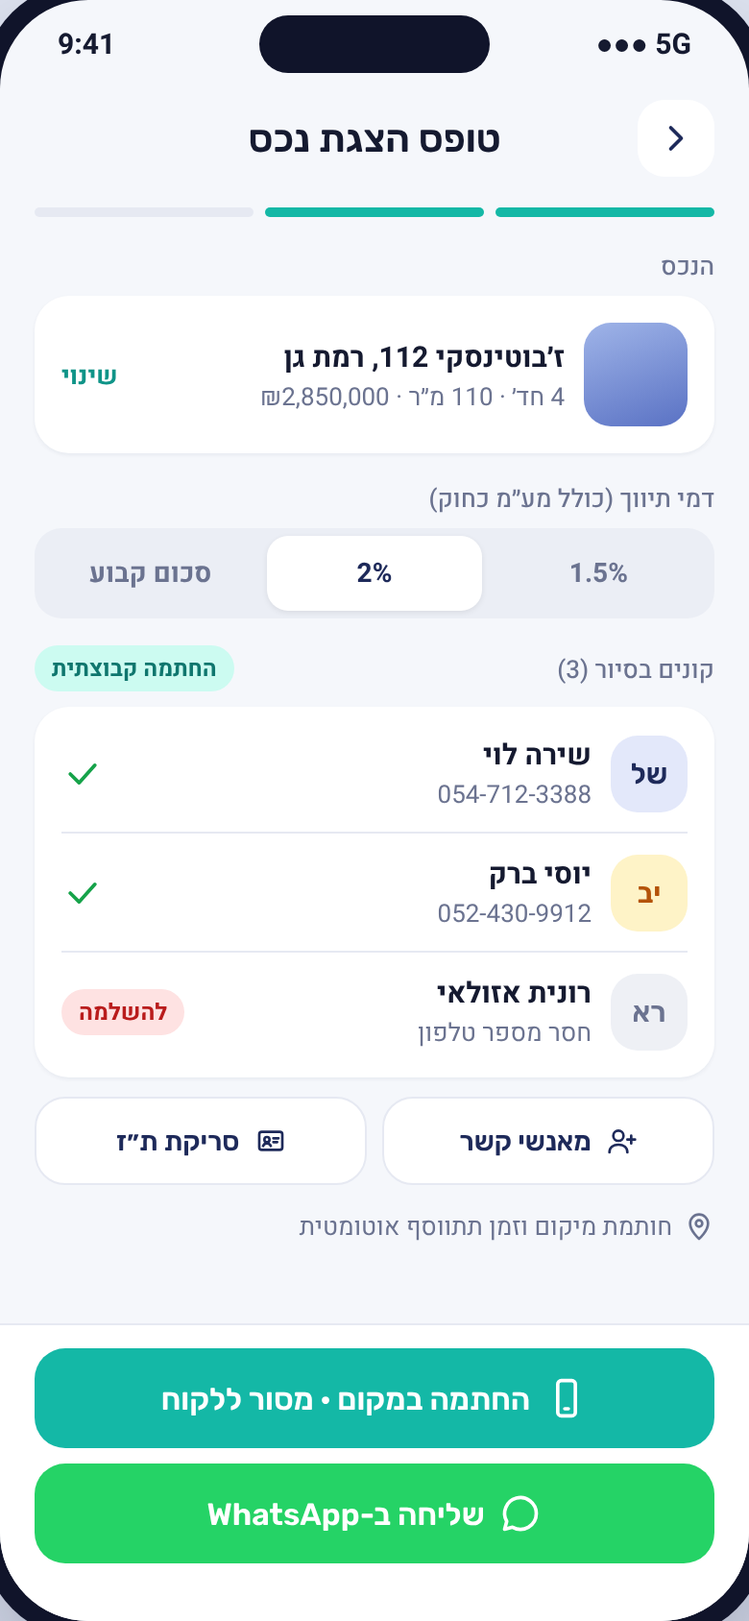
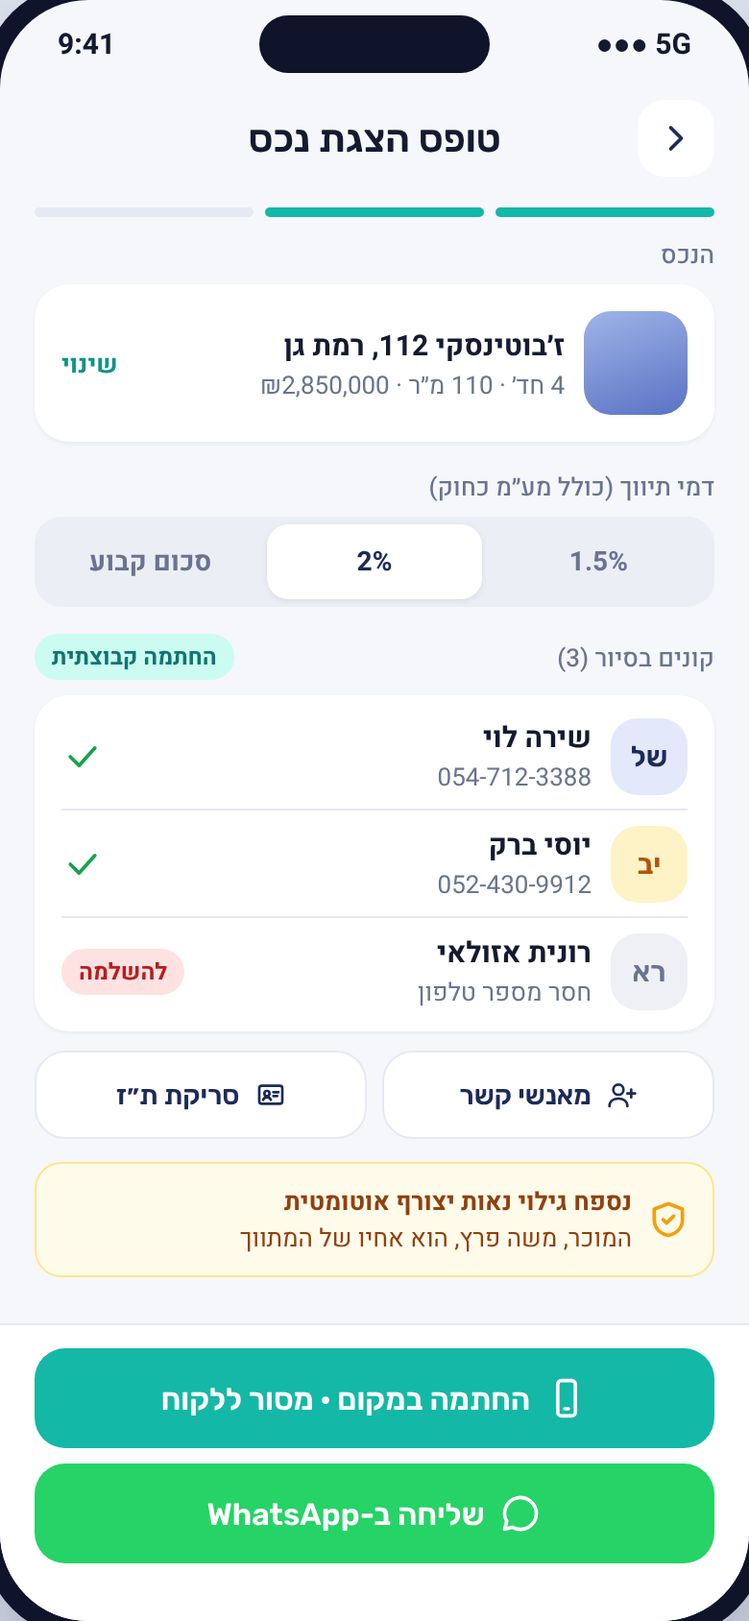
Rework disclosure templates: broker personal-interest annex and seller disclosure questionnaire
Disclosure annex is now a buyer/tenant acknowledgment of the broker's
personal interest (e.g. family tie to the seller), auto-attached per
property. Seller questionnaire becomes the property disclosure with an
auto-generated buyer info sheet.

Claude-Session: https://claude.ai/code/session_01U1SeR6NZ2Ur7a4idD67urs

diff --git a/docs/broker-app/mockups/mockups.html b/docs/broker-app/mockups/mockups.html
@@ -83,8 +83,8 @@ svg.i{width:22px;height:22px;fill:none;stroke:currentColor;stroke-width:2;stroke
  <div class="list">
   <div class="card row"><div class="av c-navy"><svg class="i" data-i="file"></svg></div><div style="flex:1"><div class="t">הזמנת שירותי תיווך</div><div class="s">מכירה · קנייה · השכרה · שכירות</div></div><svg class="i" data-i="chev" style="color:var(--mute)"></svg></div>
   <div class="card row"><div class="av c-amber"><svg class="i" data-i="key"></svg></div><div style="flex:1"><div class="t">הסכם בלעדיות</div><div class="s">כולל פעולות שיווק ותאריך סיום</div></div><svg class="i" data-i="chev" style="color:var(--mute)"></svg></div>
-  <div class="card row"><div class="av c-green"><svg class="i" data-i="shield"></svg></div><div style="flex:1"><div class="t">גילוי נאות ומידע על הנכס</div><div class="s">לקונה · ממולא משאלון המוכר</div></div><svg class="i" data-i="chev" style="color:var(--mute)"></svg></div>
-  <div class="card row"><div class="av c-gray"><svg class="i" data-i="list"></svg></div><div style="flex:1"><div class="t">שאלון מוכר נכס</div><div class="s">למוכר · זכויות, ליקויים, תשלומים</div></div><svg class="i" data-i="chev" style="color:var(--mute)"></svg></div>
+  <div class="card row"><div class="av c-green"><svg class="i" data-i="shield"></svg></div><div style="flex:1"><div class="t">נספח גילוי נאות – עניין אישי</div><div class="s">לקונה/שוכר · למשל קרבה משפחתית למוכר</div></div><svg class="i" data-i="chev" style="color:var(--mute)"></svg></div>
+  <div class="card row"><div class="av c-gray"><svg class="i" data-i="list"></svg></div><div style="flex:1"><div class="t">שאלון מוכר – גילוי נאות</div><div class="s">למוכר · + דף מידע אוטומטי לקונה</div></div><svg class="i" data-i="chev" style="color:var(--mute)"></svg></div>
  </div>
  <div class="row" style="margin-top:16px;background:#E8F7F4;border-radius:14px;padding:12px;color:#0F766E;font-size:13px;gap:8px"><svg class="i" data-i="shield"></svg><span>כל התבניות כוללות את שדות החובה לפי תקנות המתווכים במקרקעין</span></div>
 </div>
@@ -94,24 +94,24 @@ svg.i{width:22px;height:22px;fill:none;stroke:currentColor;stroke-width:2;stroke
 <div class="wrap"><div class="phone"><div class="sb"><span>9:41</span><span class="n"></span><span>●●● 5G</span></div>
 <div class="body">
  <div class="hdr"><div class="ib"><svg class="i" data-i="back"></svg></div><h2>טופס הצגת נכס</h2><div style="width:40px"></div></div>
- <div class="steps"><i class="on"></i><i class="on"></i><i></i></div>
+ <div class="steps" style="margin-bottom:10px"><i class="on"></i><i class="on"></i><i></i></div>
  <div class="lbl">הנכס</div>
  <div class="card row" style="margin-bottom:14px"><div style="width:54px;height:54px;border-radius:14px;background:linear-gradient(160deg,#9FB4E8,#5A72C4);flex:none"></div><div style="flex:1"><div class="t">ז׳בוטינסקי 112, רמת גן</div><div class="s">4 חד׳ · 110 מ״ר · ₪2,850,000</div></div><span class="s" style="color:var(--teal-d);font-weight:600">שינוי</span></div>
  <div class="lbl">דמי תיווך (כולל מע״מ כחוק)</div>
  <div class="seg" style="margin-bottom:14px"><div>1.5%</div><div class="on">2%</div><div>סכום קבוע</div></div>
  <div class="row between" style="margin-bottom:8px"><div class="lbl" style="margin:0">קונים בסיור (3)</div><span class="chip c-teal">החתמה קבוצתית</span></div>
  <div class="card" style="padding:4px 14px">
-  <div class="row" style="padding:10px 0"><div class="av c-navy">של</div><div style="flex:1"><div class="t">שירה לוי</div><div class="s" style="direction:ltr;text-align:right">054-712-3388</div></div><svg class="i" data-i="check" style="color:var(--green)"></svg></div>
+  <div class="row" style="padding:7px 0"><div class="av c-navy">של</div><div style="flex:1"><div class="t">שירה לוי</div><div class="s" style="direction:ltr;text-align:right">054-712-3388</div></div><svg class="i" data-i="check" style="color:var(--green)"></svg></div>
   <div class="divider" style="margin:0"></div>
-  <div class="row" style="padding:10px 0"><div class="av c-amber">יב</div><div style="flex:1"><div class="t">יוסי ברק</div><div class="s" style="direction:ltr;text-align:right">052-430-9912</div></div><svg class="i" data-i="check" style="color:var(--green)"></svg></div>
+  <div class="row" style="padding:7px 0"><div class="av c-amber">יב</div><div style="flex:1"><div class="t">יוסי ברק</div><div class="s" style="direction:ltr;text-align:right">052-430-9912</div></div><svg class="i" data-i="check" style="color:var(--green)"></svg></div>
   <div class="divider" style="margin:0"></div>
-  <div class="row" style="padding:10px 0"><div class="av c-gray">רא</div><div style="flex:1"><div class="t">רונית אזולאי</div><div class="s">חסר מספר טלפון</div></div><span class="chip c-red">להשלמה</span></div>
+  <div class="row" style="padding:7px 0"><div class="av c-gray">רא</div><div style="flex:1"><div class="t">רונית אזולאי</div><div class="s">חסר מספר טלפון</div></div><span class="chip c-red">להשלמה</span></div>
  </div>
  <div class="row" style="gap:8px;margin-top:10px">
   <div class="btn bo" style="flex:1;height:46px;font-size:14px"><svg class="i sm" data-i="uplus"></svg>מאנשי קשר</div>
   <div class="btn bo" style="flex:1;height:46px;font-size:14px"><svg class="i sm" data-i="idc"></svg>סריקת ת״ז</div>
  </div>
- <div class="row" style="margin-top:12px;font-size:13px;color:var(--mute);gap:6px"><svg class="i sm" data-i="pin"></svg>חותמת מיקום וזמן תתווסף אוטומטית</div>
+ <div class="row" style="margin-top:12px;background:#FFFBEB;border:1.5px solid #FDE68A;border-radius:14px;padding:10px 12px;gap:8px;font-size:13px;color:#92400E"><svg class="i" data-i="shield" style="color:var(--amber)"></svg><div style="flex:1"><b>נספח גילוי נאות יצורף אוטומטית</b><br>המוכר, משה פרץ, הוא אחיו של המתווך</div></div>
 </div>
 <div style="padding:12px 18px 30px;background:#fff;border-top:1px solid var(--line);display:flex;flex-direction:column;gap:8px">
  <div class="btn bp"><svg class="i" data-i="phone2"></svg>החתמה במקום · מסור ללקוח</div>

diff --git a/docs/broker-app/templates/03-disclosure.md b/docs/broker-app/templates/03-disclosure.md
@@ -1,50 +1,49 @@
-# טופס גילוי נאות ומידע על הנכס
-**נמסר לקונה / לשוכר – לפי חובות הגילוי של המתווך (סעיף 10 לחוק ותקנות המתווכים במקרקעין (אתיקה וחובות מקצועיות), התשפ״ד-2024)**
+# נספח גילוי נאות – עניין אישי של המתווך
+**נספח שהקונה / השוכר חותם עליו כדי לאשר שידע על הקשר בין המתווך לבין המוכר / המשכיר או הנכס**
+**לפי סעיף 10 לחוק המתווכים במקרקעין, התשנ״ו-1996 ותקנות המתווכים במקרקעין (אתיקה וחובות מקצועיות), התשפ״ד-2024**
 
-> טיוטה לעבודה – לבדיקת עו״ד. יש להשוות את סעיף ג׳ לרשימה המלאה ב**תוספת לתקנות האתיקה** ולהשלים פריטים חסרים.
+> טיוטה לעבודה – לבדיקת עו״ד. יש לוודא מול נוסח החוק את ההגדרה המדויקת של "קרוב" ואת אופן הגילוי הנדרש.
 
-**תאריך:** {{תאריך}}   **הנכס:** {{נכס.כתובת}}   **הלקוח:** {{לקוח.שם}}, ת״ז {{לקוח.תז}}
+**מצורף ל:** [ ] הזמנת שירותי תיווך מס׳ {{הזמנה.מספר}}  [ ] טופס הצגת נכס מס׳ {{הצגה.מספר}}
+**תאריך:** {{תאריך}}*   **הנכס:** {{נכס.כתובת}}*
 
-## א. גילוי על המתווך
-| נושא | גילוי |
-|---|---|
-| רישיון | {{מתווך.שם}}, רישיון {{מתווך.רישיון}} – הוצג ללקוח לפי בקשתו |
-| עניין אישי בנכס/בעסקה | [ ] אין  [ ] יש: {{עניין_אישי}} |
-| את מי המתווך מייצג | [ ] את הקונה/שוכר בלבד  [ ] את המוכר/משכיר בלבד  [ ] את שני הצדדים – בהסכמת שניהם בכתב |
-| בלעדיות מבעל הנכס | [ ] לנכס יש בלעדיות אצל המתווך עד {{בלעדיות.עד}}  [ ] אין |
-| תשלום / טובת הנאה מגורם שאינו צד לעסקה (שמאי, יועץ משכנתאות, קבלן וכו׳) | [ ] אין  [ ] יש: {{תשלום_צד_ג}} |
-| הליכי כינוס / הוצאה לפועל על הנכס, ככל שידוע | [ ] לא ידוע על הליך  [ ] קיים: {{הליכים}} |
+### 1. הצדדים
+**המתווך:** {{מתווך.שם}}, רישיון {{מתווך.רישיון}}*, {{משרד.שם}}
+**הלקוח (קונה / שוכר):** {{לקוח.שם}}, ת״ז {{לקוח.תז}}*
+**הצד השני לעסקה (מוכר / משכיר):** {{צד_שני.שם}}*
 
-## ב. מקור המידע
-המידע בסעיף ג׳ נמסר על ידי בעל הנכס ב**שאלון מוכר** מיום {{שאלון.תאריך}}, ו/או נבדק על ידי המתווך במקורות: [ ] נסח טאבו מיום {{נסח.תאריך}} [ ] אישור זכויות ממנהל/חברה משכנת [ ] תיק בניין / היתר [ ] ביקור בנכס.
-המתווך אינו מהנדס, שמאי או עו״ד. **מומלץ לבצע בדיקה הנדסית ומשפטית עצמאית לפני חתימה על הסכם.**
+### 2. מהות העניין האישי*
+המתווך מודיע ללקוח שיש לו עניין אישי בנכס או בעסקה, כמפורט (לסמן את כל מה שרלוונטי):
+[ ] **קרבה משפחתית למוכר / משכיר** – {{צד_שני.שם}} הוא/היא **{{קרבה}}** של המתווך
+    *(למשל: בן/בת זוג, הורה, ילד/ה, אח/ות, סב/תא, נכד/ה, גיס/ה, חותן/ת – ובני זוגם)*
+[ ] **קרבה משפחתית של עובד במשרד** – {{עובד.שם}} מהמשרד הוא/היא {{קרבה}} של המוכר / המשכיר
+[ ] **המתווך עצמו** (או בן משפחתו) **בעל זכויות בנכס** – פירוט: {{זכויות_מתווך}}
+[ ] **תאגיד בשליטת המתווך** או שהמתווך שותף / בעל מניות / מנהל בו הוא בעל הנכס – שם התאגיד: {{תאגיד}}
+[ ] **קשר עסקי** עם המוכר / המשכיר (שותפות, העסקה, ספק, לקוח קבוע) – פירוט: {{קשר_עסקי}}
+[ ] **טובת הנאה מגורם שאינו צד לעסקה** (קבלן, יזם, יועץ משכנתאות, שמאי, עו״ד) – ממי ובאיזה היקף: {{טובת_הנאה}}
+[ ] **המתווך מייצג גם את המוכר / המשכיר** בעסקה זו
+[ ] עניין אחר: {{עניין_אחר}}
 
-## ג. מידע על הנכס
-| נושא | מצב | פירוט |
-|---|---|---|
-| בעלות ורישום | {{זכויות.סוג}} | שמות הבעלים: {{זכויות.בעלים}} |
-| שטח | {{נכס.מ״ר}} מ״ר | מקור המדידה: {{שטח.מקור}} (טאבו / ארנונה / תכנית / מדידה) |
-| חלוקה פנימית ומצמידים | | חניה {{חניה}}, מחסן {{מחסן}}, מרפסת {{מרפסת}} |
-| משכנתא / שעבוד / עיקול | [ ] אין [ ] יש | {{שעבודים}} |
-| הערות אזהרה ורישומים בנסח | [ ] אין [ ] יש | {{הערות_אזהרה}} |
-| **רטיבות** | [ ] אין ידיעה [ ] יש / הייתה | {{רטיבות}} |
-| **חריגות בנייה** / תוספות ללא היתר | [ ] אין ידיעה [ ] יש | {{חריגות}} |
-| **ליקויים מהותיים בתשתיות** (מים, חשמל, ביוב, גז) | [ ] אין ידיעה [ ] יש | {{ליקויי_תשתית}} |
-| ליקויים מהותיים אחרים (סדקים, מבנה, איטום) | [ ] אין ידיעה [ ] יש | {{ליקויים}} |
-| תביעות / זכויות של אחרים בנכס | [ ] אין ידיעה [ ] יש | {{תביעות}} |
-| מחזיק בנכס היום | [ ] בעלים [ ] שוכר עד {{שכירות.עד}} [ ] ריק | |
-| נכס שאינו ראוי למגורים | [ ] לא [ ] כן | {{לא_ראוי}} |
-| תמ״א 38 / פינוי-בינוי / תכנית בתוקף או בהליך | [ ] אין ידיעה [ ] יש | {{תכנון}} |
-| תשלומי חובה (ארנונה, ועד בית) וחובות | | ארנונה ₪{{ארנונה}}/דו-חודשי · ועד ₪{{ועד}}/חודש · חובות: {{חובות}} |
-| מידע מהותי נוסף שידוע למתווך | | {{מידע_נוסף}} |
+### 3. השלכות שהוסברו ללקוח
+המתווך הסביר ללקוח, בשפה פשוטה, ש:
+3.1 בגלל העניין האישי, למתווך עשוי להיות אינטרס שהעסקה תיחתם, או שתיחתם בתנאים מסוימים (מחיר, מועדים).
+3.2 המתווך ממשיך לחוב כלפי הלקוח בחובת נאמנות, ויעביר לו כל מידע מהותי על הנכס – כולל מידע שאינו נוח לצד השני.
+3.3 הלקוח רשאי לקיים קשר ישיר עם הצד השני, להיעזר בשמאי, עו״ד או מתווך אחר מטעמו, ולא להתקשר בעסקה.
+3.4 [ ] דמי התיווך לא יושפעו מהעניין האישי. [ ] דמי התיווך הותאמו: {{התאמת_עמלה}}
 
-**סירוב למסור מידע:** [ ] בעל הנכס סירב למסור מידע בנושאים: {{סירוב.נושאים}}. המתווך עשה מאמץ סביר לקבלו.
+### 4. אישור הלקוח*
+[ ] **המתווך גילה לי את העניין האישי המפורט לעיל לפני** שהוצג לי הנכס / לפני שחתמתי על הזמנת שירותי התיווך.
+[ ] הבנתי את משמעות הגילוי, ואני מסכים/ה להמשיך לקבל שירותי תיווך מהמתווך בעסקה זו.
+[ ] קיבלתי עותק חתום של נספח זה.
 
-## ד. אישור קבלת מידע
-[ ] קיבלתי את המידע שלעיל והמתווך הסביר לי אותו בשפה פשוטה.
-[ ] ידוע לי שהמידע נמסר כפי שהוא ידוע למתווך ולבעל הנכס, ושעליי לבצע בדיקות עצמאיות.
-[ ] קיבלתי עותק של טופס זה.
-
-| הקונה/השוכר | המתווך |
+| הלקוח | המתווך |
 |---|---|
 | [[חתימה]] | [[חתימה]] |
+| {{לקוח.שם}} · {{תאריך}} {{שעה}} | {{מתווך.שם}} · רישיון {{מתווך.רישיון}} |
+
+---
+**איך זה עובד באפליקציה**
+- בכרטיס הנכס (או בכרטיס הלקוח-מוכר) המתווך מסמן "יש לי עניין אישי" ובוחר את סוג הקשר – פעם אחת.
+- מאותו רגע, **הנספח מצורף אוטומטית** לכל הזמנת תיווך וטופס הצגה של קונה/שוכר לנכס הזה, ולא ניתן להסיר אותו.
+- הלקוח חותם קודם על הנספח ורק אחר כך על הטופס. כך יש הוכחה (חותמת זמן) שהגילוי היה לפני ההצגה.
+- דשבורד מנהל: רשימת כל הנכסים שמסומן בהם עניין אישי.

diff --git a/docs/broker-app/templates/04-seller-questionnaire.md b/docs/broker-app/templates/04-seller-questionnaire.md
@@ -1,9 +1,12 @@
-# שאלון מוכר / משכיר נכס
-**ממולא על ידי בעל הנכס עם מסירת הנכס לשיווק. התשובות מזינות את טופס הגילוי הנאות לקונים/שוכרים.**
+# שאלון מוכר / משכיר – גילוי נאות על הנכס
+**חלק א׳ – ממולא ונחתם על ידי בעל הנכס עם מסירת הנכס לשיווק (הגילוי של המוכר).**
+**חלק ב׳ – דף מידע לקונה / לשוכר שנוצר אוטומטית מהתשובות, והקונה חותם על קבלתו (הגילוי של המתווך לקונה).**
 
 > טיוטה לעבודה – לבדיקת עו״ד. באפליקציה: שאלון שלב-אחר-שלב, שאלה אחת במסך, עם אפשרות לצלם מסמכים.
 
 **תאריך:** {{תאריך}}   **מתווך:** {{מתווך.שם}}, רישיון {{מתווך.רישיון}}
+
+# חלק א׳ – שאלון לבעל הנכס
 
 ## 1. פרטי בעלי הנכס
 | | |
@@ -68,3 +71,46 @@
 | בעל/ת הנכס | בעלים נוסף/ת | המתווך |
 |---|---|---|
 | [[חתימה]] | [[חתימה]] | [[חתימה]] |
+
+---
+
+# חלק ב׳ – דף מידע על הנכס לקונה / לשוכר
+**נוצר אוטומטית מחלק א׳ ונמסר לקונה / לשוכר לפני הסיור או לפני המו״מ. הקונה חותם על קבלתו.**
+
+**תאריך:** {{תאריך}}   **הנכס:** {{נכס.כתובת}}   **הלקוח:** {{לקוח.שם}}, ת״ז {{לקוח.תז}}
+
+### ב0. מקור המידע
+המידע נמסר על ידי בעל הנכס בשאלון מיום {{שאלון.תאריך}}, ו/או נבדק על ידי המתווך: [ ] נסח טאבו מיום {{נסח.תאריך}} [ ] אישור זכויות [ ] תיק בניין / היתר [ ] ביקור בנכס.
+המתווך אינו מהנדס, שמאי או עו״ד. **מומלץ לבצע בדיקה הנדסית ומשפטית עצמאית לפני חתימה על הסכם.**
+
+### ב1. מידע על הנכס (מתוך השאלון)
+| נושא | מצב | פירוט |
+|---|---|---|
+| בעלות ורישום | {{זכויות.סוג}} | שמות הבעלים: {{זכויות.בעלים}} |
+| שטח | {{נכס.מ״ר}} מ״ר | מקור המדידה: {{שטח.מקור}} (טאבו / ארנונה / תכנית / מדידה) |
+| חלוקה פנימית ומצמידים | | חניה {{חניה}}, מחסן {{מחסן}}, מרפסת {{מרפסת}} |
+| משכנתא / שעבוד / עיקול | [ ] אין [ ] יש | {{שעבודים}} |
+| הערות אזהרה ורישומים בנסח | [ ] אין [ ] יש | {{הערות_אזהרה}} |
+| **רטיבות** | [ ] אין ידיעה [ ] יש / הייתה | {{רטיבות}} |
+| **חריגות בנייה** / תוספות ללא היתר | [ ] אין ידיעה [ ] יש | {{חריגות}} |
+| **ליקויים מהותיים בתשתיות** (מים, חשמל, ביוב, גז) | [ ] אין ידיעה [ ] יש | {{ליקויי_תשתית}} |
+| ליקויים מהותיים אחרים (סדקים, מבנה, איטום) | [ ] אין ידיעה [ ] יש | {{ליקויים}} |
+| תביעות / זכויות של אחרים בנכס | [ ] אין ידיעה [ ] יש | {{תביעות}} |
+| מחזיק בנכס היום | [ ] בעלים [ ] שוכר עד {{שכירות.עד}} [ ] ריק | |
+| נכס שאינו ראוי למגורים | [ ] לא [ ] כן | {{לא_ראוי}} |
+| תמ״א 38 / פינוי-בינוי / תכנית בתוקף או בהליך | [ ] אין ידיעה [ ] יש | {{תכנון}} |
+| תשלומי חובה (ארנונה, ועד בית) וחובות | | ארנונה ₪{{ארנונה}}/דו-חודשי · ועד ₪{{ועד}}/חודש · חובות: {{חובות}} |
+| מידע מהותי נוסף שידוע למתווך | | {{מידע_נוסף}} |
+
+**סירוב למסור מידע:** [ ] בעל הנכס סירב למסור מידע בנושאים: {{סירוב.נושאים}}. המתווך עשה מאמץ סביר לקבלו.
+
+### ב2. אישור קבלת מידע
+[ ] קיבלתי את המידע שלעיל והמתווך הסביר לי אותו בשפה פשוטה.
+[ ] ידוע לי שהמידע נמסר כפי שהוא ידוע למתווך ולבעל הנכס, ושעליי לבצע בדיקות עצמאיות.
+[ ] קיבלתי עותק של דף זה.
+
+| הקונה/השוכר | המתווך |
+|---|---|
+| [[חתימה]] | [[חתימה]] |
+
+> אם למתווך יש עניין אישי בנכס – מצורף גם **נספח גילוי נאות – עניין אישי** ([03-disclosure.md](03-disclosure.md)).

diff --git a/docs/broker-app/templates/README.md b/docs/broker-app/templates/README.md
@@ -6,13 +6,14 @@
 |---|---|---|---|---|
 | 1 | הזמנת שירותי תיווך (מכירה / קנייה / השכרה / שכירות) | הלקוח | לפני שמוסרים פרטי נכס / מציגים | [01-brokerage-order.md](01-brokerage-order.md) |
 | 2 | הסכם בלעדיות | בעל הנכס | עם קבלת הנכס לשיווק – **מסמך נפרד** | [02-exclusivity.md](02-exclusivity.md) |
-| 3 | גילוי נאות ומידע על הנכס | הקונה / השוכר (אישור קבלה) | לפני הסיור / לפני מו״מ | [03-disclosure.md](03-disclosure.md) |
-| 4 | שאלון מוכר / משכיר נכס | בעל הנכס | עם קבלת הנכס – הבסיס לטופס 3 | [04-seller-questionnaire.md](04-seller-questionnaire.md) |
+| 3 | נספח גילוי נאות – עניין אישי של המתווך (למשל קרבה משפחתית למוכר/משכיר) | הקונה / השוכר | לפני ההצגה / לפני הזמנת התיווך – מצורף אוטומטית | [03-disclosure.md](03-disclosure.md) |
+| 4 | שאלון מוכר / משכיר – גילוי נאות על הנכס (חלק א׳ למוכר, חלק ב׳ דף מידע לקונה) | בעל הנכס; הקונה מאשר קבלה | עם קבלת הנכס לשיווק; חלק ב׳ – לפני סיור | [04-seller-questionnaire.md](04-seller-questionnaire.md) |
 
 ## איך זה עובד באפליקציה
 - כל `{{שדה}}` ממולא אוטומטית מכרטיס המתווך / הלקוח / הנכס. שדות שמסומנים `*` הם חובה – אי אפשר לשלוח בלי למלא אותם.
 - `[ ]` = תיבת סימון שהחותם מסמן. `[[חתימה]]` = מקום חתימה.
-- **שאלון המוכר (4) מזין את טופס הגילוי (3):** התשובות של המוכר עוברות אוטומטית לטופס שהקונה מקבל, כך שהמתווך מתעד שהעביר את המידע.
+- **שאלון המוכר (4) = הגילוי הנאות על הנכס:** המוכר ממלא את חלק א׳, והתשובות יוצרות אוטומטית את חלק ב׳ – דף מידע שהקונה מקבל וחותם עליו. כך המתווך מתעד שהעביר את המידע.
+- **נספח עניין אישי (3):** המתווך מסמן פעם אחת בכרטיס הנכס שיש לו קשר (משפחתי, עסקי, בעלות), והנספח מצורף אוטומטית לכל טופס שקונה/שוכר חותם עליו לנכס הזה – לפני הטופס עצמו.
 - אחרי חתימה: נוצר PDF עם עמוד "תעודת חתימה" (שעה, טלפון מאומת, מיקום, קוד אימות של הקובץ). העתק נשלח אוטומטית לכל החותמים ונשמר בכרטיסים.
 
 ## מה החוק דורש (לפי המקורות – לאמת מול הנוסח הרשמי)

diff --git a/docs/broker-app/02-product-spec.md b/docs/broker-app/02-product-spec.md
@@ -46,7 +46,8 @@
 - סטטוסים בזמן אמת (נשלח / נצפה / נחתם) + תזכורות אוטומטיות
 - ארכיון מסמכים עם חיפוש
 - **העתק חתום ושמירת PDF** (ראו סעיף 5א)
-- **ספריית תבניות מוכנות:** הזמנת שירותי תיווך, הסכם בלעדיות, גילוי נאות ומידע על הנכס, שאלון מוכר נכס (ראו `templates/`)
+- **ספריית תבניות מוכנות:** הזמנת שירותי תיווך, הסכם בלעדיות, נספח גילוי נאות – עניין אישי של המתווך, שאלון מוכר – גילוי נאות על הנכס (ראו `templates/`)
+- **צירוף אוטומטי של נספח עניין אישי:** סימון "יש לי קשר למוכר" בכרטיס הנכס מצרף את הנספח לכל טופס של קונה/שוכר לנכס, והלקוח חותם עליו לפני הטופס
 - כרטיס לקוח וכרטיס נכס בסיסיים (נוצרים אוטומטית מהמסמך)
 
 ### 5א. העתק חתום ושמירת PDF (חלק מה-MVP)
